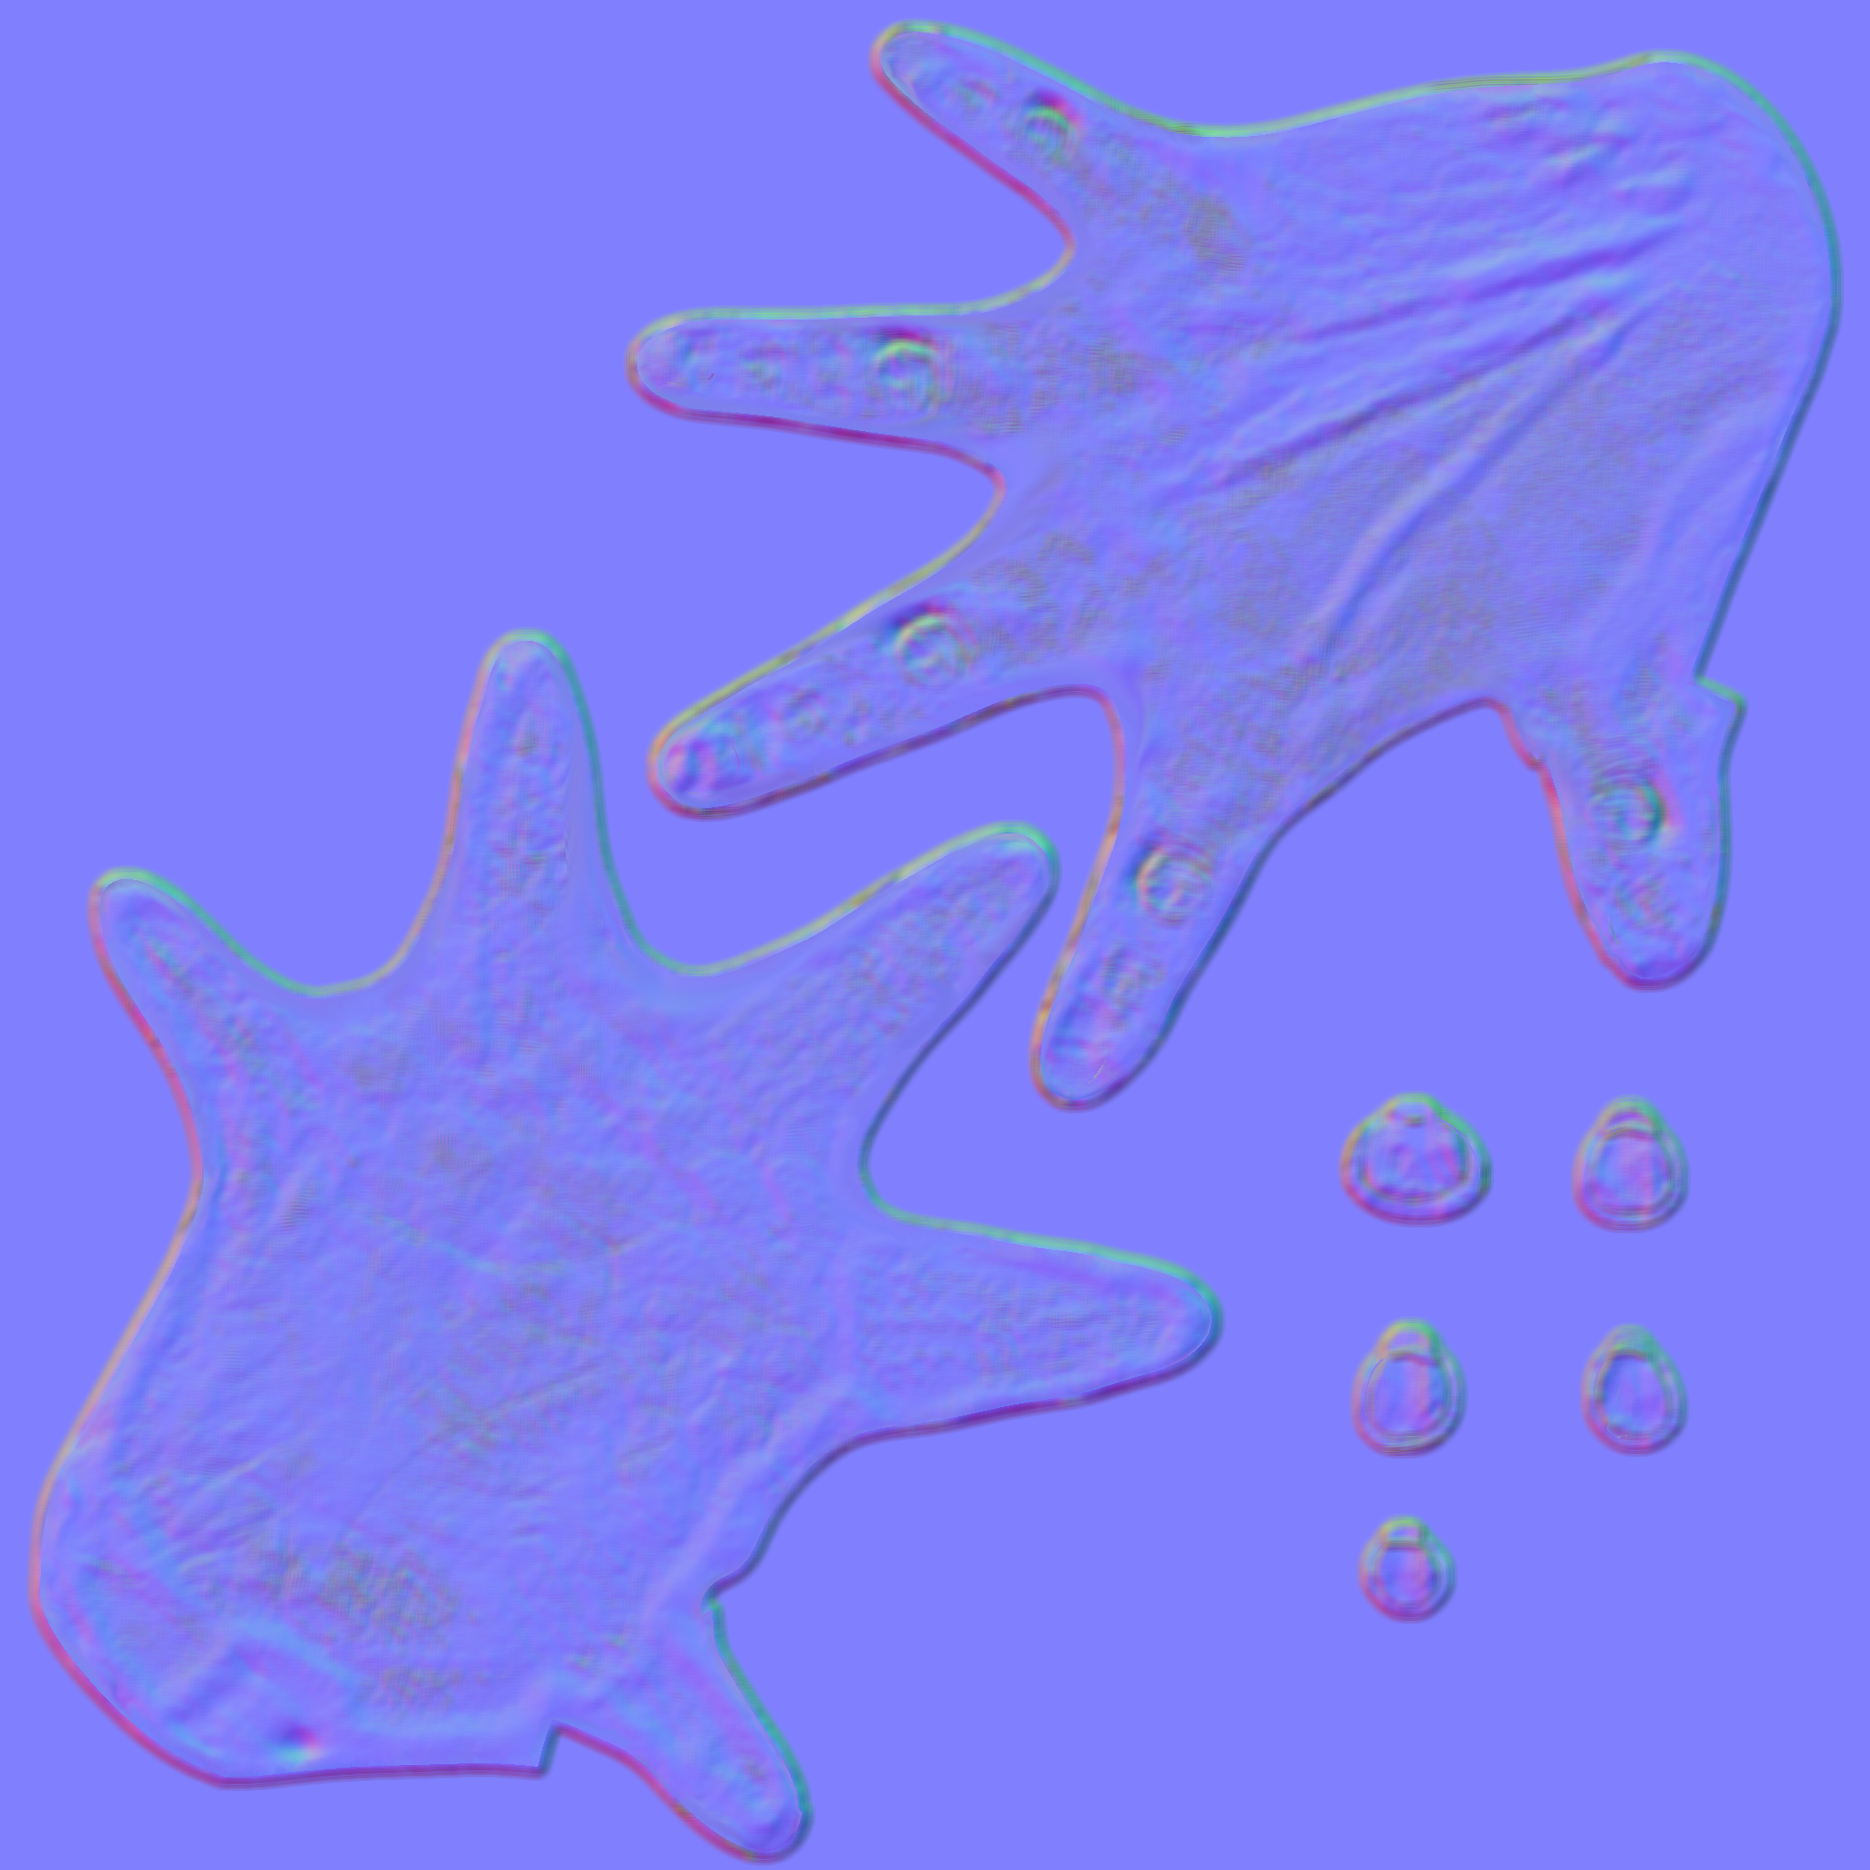
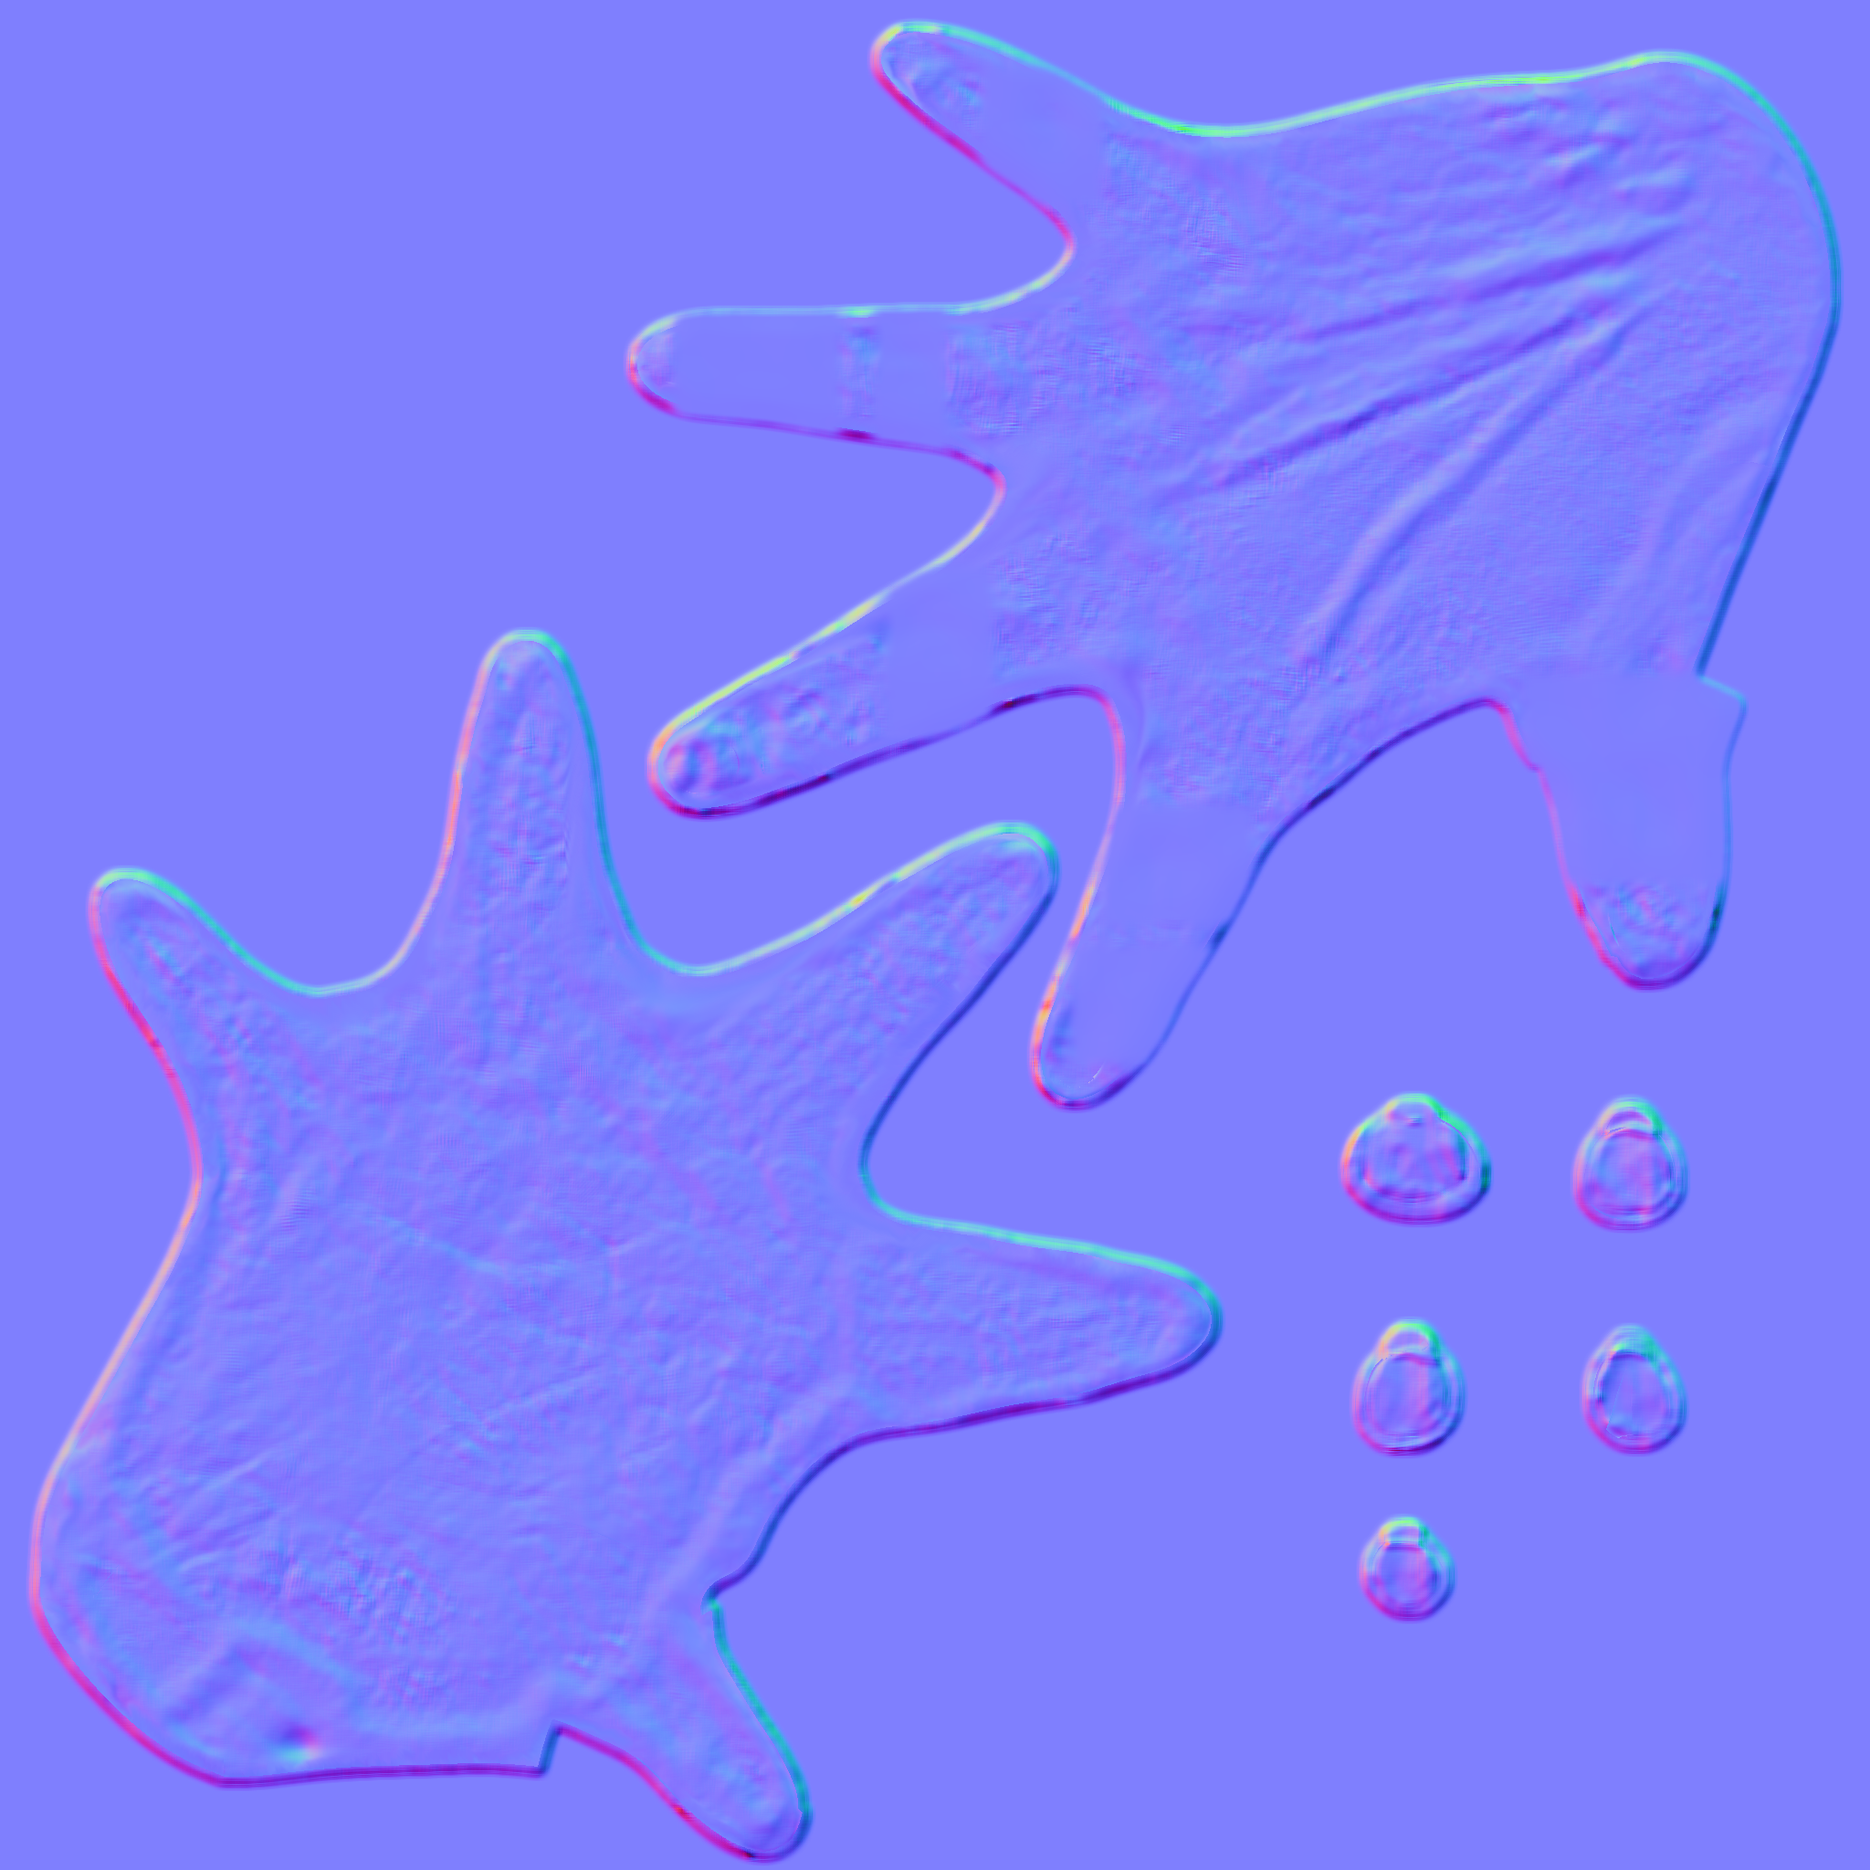
Hands: fade the knuckle swirls and grade Studio peach
The dorsal bullseye on the thumb and the same painted rings on the other
fingers stay as faint creases. Studio's bake is a light, low-contrast peach
with a pale rim and a hazy cuff, and Realistic remains the default.

diff --git a/src/hands/studioSkin.ts b/src/hands/studioSkin.ts
@@ -1,12 +1,12 @@
-// Studio hand. The colour is a Cycles bake of Elena's mesh under soft, even lights
-// (public/hands/elena/studio.webp), so this material does not read the scene lights,
-// the HDRI, or the lighting controls. Matte has nothing glossy to remove. The skin-tone
-// swatch still tints the bake. A short fresnel stands in for the airbrushed rim, and the
-// wrist fades out through the cuff instead of meeting a forearm tube.
+// Studio hand. The colour is a Cycles bake of Elena's mesh, graded to a light peach
+// with the pores and knuckle cavities washed out (public/hands/elena/studio.webp).
+// It does not read the scene lights, the HDRI, or the lighting controls. Matte has
+// nothing glossy to remove. The skin-tone swatch still tints the bake. A pale fresnel
+// blooms the silhouette, and the wrist cuff fades into a light haze.
 import * as THREE from 'three'
 import { toneGain, type SkinTone } from './realisticSkin'
 
-export const STUDIO_URL = '/hands/elena/studio.webp?v=3'
+export const STUDIO_URL = '/hands/elena/studio.webp?v=5'
 
 export function prepareStudioMap(map: THREE.Texture) {
   map.colorSpace = THREE.SRGBColorSpace
@@ -38,13 +38,17 @@ vStudioW = (modelMatrix * vec4(transformed, 1.0)).xyz;`,
       '#include <dithering_fragment>',
       `#include <dithering_fragment>
 float studioNdV = clamp(dot(normalize(vStudioN), normalize(cameraPosition - vStudioW)), 0.0, 1.0);
-float studioRim = pow(1.0 - studioNdV, 1.7);
-gl_FragColor.rgb += vec3(1.0, 0.55, 0.40) * studioRim * 0.22;
-gl_FragColor.rgb += vec3(1.0, 0.78, 0.68) * studioRim * studioRim * 0.06;
-gl_FragColor.a *= 1.0 - smoothstep(uFadeFrom, uFadeFrom + 0.1, vArm);
+float studioRim = pow(1.0 - studioNdV, 1.35);
+// Pale peach bloom along the silhouette, so the edge goes soft instead of cutting.
+gl_FragColor.rgb += vec3(1.0, 0.94, 0.88) * studioRim * 0.26;
+gl_FragColor.rgb += vec3(0.98, 0.93, 0.88) * studioRim * studioRim * 0.10;
+// The cuff is only the mesh past the wrist. It fades into a light haze, then out.
+float cuff = smoothstep(uFadeFrom, uFadeFrom + 0.12, vArm);
+gl_FragColor.rgb = mix(gl_FragColor.rgb, vec3(0.96, 0.93, 0.90), clamp(cuff * 1.05, 0.0, 0.85));
+gl_FragColor.a *= 1.0 - cuff;
 if (gl_FragColor.a < 0.02) discard;`,
     )
   }
-  mat.customProgramCacheKey = () => 'om-elena-studio-2'
+  mat.customProgramCacheKey = () => 'om-elena-studio-3'
   return mat
 }

diff --git a/src/hands/realisticSkin.ts b/src/hands/realisticSkin.ts
@@ -5,9 +5,9 @@
 import * as THREE from 'three'
 
 export const ELENA_URLS: string[] = [
-  '/hands/elena/albedo.webp',
-  '/hands/elena/normal.webp',
-  '/hands/elena/roughness.webp',
+  '/hands/elena/albedo.webp?v=2',
+  '/hands/elena/normal.webp?v=2',
+  '/hands/elena/roughness.webp?v=2',
   '/hands/elena/specular.webp',
 ]
 

diff --git a/README.md b/README.md
@@ -48,7 +48,7 @@ Hand → Appearance → Hand style switches between **Realistic** (the default),
 
 Realistic skin is a `MeshPhysicalMaterial` (`src/hands/realisticSkin.ts`) on Elena FF's mesh, so the orbit camera and the lighting controls (intensity, direction, height, contact shadow, the studio HDRI) still shade the hand. The roughness map is lifted, specular is low, clearcoat is off and the normal map is softened, so the skin stays dry and matte with a little warmth. Matte, in Sketch, still strips sheen, specular and the environment reflection. A wrapped diffuse lobe and a small warm backlight stand in for subsurface scatter. The skin-tone swatches scale the albedo: Fair leaves the texture as painted, and the other swatches shift it.
 
-Studio (`src/hands/studioSkin.ts`) uses the same mesh with an airbrushed Cycles bake (`public/hands/elena/studio.webp`): pores are softened, the light is an even wrap, and a warm fresnel glows at the silhouette. The material is unlit on purpose: scene lights, the HDRI and the lighting controls do not shade it. The wrist cuff fades into the background instead of growing a forearm. The skin-tone swatch still tints the bake. Realistic stays the default.
+Studio (`src/hands/studioSkin.ts`) uses the same mesh with a Cycles bake graded to a light peach (`public/hands/elena/studio.webp`): pores are nearly gone, the shading is a soft low-contrast wrap, and a pale fresnel blooms the silhouette. The material is unlit on purpose: scene lights, the HDRI and the lighting controls do not shade it. The wrist cuff fades into a light haze instead of growing a forearm. The skin-tone swatch still tints the bake. Realistic stays the default. The dorsal knuckle swirls in the colour and normal maps are softened locally, on both styles, so those creases stay faint.
 
 The mesh is "Rigged hand" by Elena FF, about 15.5k vertices and 29k triangles after triangulation. In Blender the deform bones were unparented onto a flat armature (OpenMock poses each joint in armature space), renamed to the WebXR generic-hand bone names, and scaled so the wrist-to-middle-fingertip length matches the classic asset (178 mm). Control bones were dropped; they carried no skin weights. The thumb's extra middle phalanx is posed on its own: the curl is shared, the middle joint stays shallow (a little of its sculpted kink is opened so it does not fold into a slit), and the nail joint stays at a gentle bend so the tip does not fold into the phone. The short base bones stay near the sculpted rest so the knuckle does not collapse. The forearm is the same physical skin as the hand, tiled from a patch of these maps, flared over the cuff. Elena's fingers are thicker than the generic hand, so the contact spheres and the phone grips for that mesh are separate. Classic poses are unchanged. A left hand is the right hand mirrored on X, with the same bone names. See `public/hands/elena/README.md` for the conversion steps, the bake, and the CC BY-SA terms.
 
@@ -57,11 +57,11 @@ The model's sculpted nails are the ones you see. Procedural nail plates stay on 
 | File | Contents |
 | --- | --- |
 | `public/hands/elena/right.glb`, `left.glb` | Meshopt-compressed glTF, flat skeleton, 27 joints. |
-| `albedo.webp` | The model's colour map. |
-| `normal.webp` | The model's tangent-space normal map. |
-| `roughness.webp` | The model's roughness map, lifted so the skin stays matte. |
+| `albedo.webp` | The model's colour map. Dorsal knuckle swirls are softened in place. |
+| `normal.webp` | The model's tangent-space normal map, with those same knuckles faded. |
+| `roughness.webp` | The model's roughness map, lifted so the skin stays matte, and softened on those knuckles. |
 | `specular.webp` | The model's specular map. Shipped for reference; the material does not sample it. |
-| `studio.webp` | Airbrushed Cycles bake of this mesh. CC BY-SA, because it is derived from the model. |
+| `studio.webp` | Light-peach Cycles bake of this mesh. CC BY-SA, because it is derived from the model. |
 | `forearm-albedo.webp`, `forearm-normal.webp`, `forearm-roughness.webp` | Seamless skin tile for the forearm, cut from the hand maps. CC BY-SA. |
 
 ### Photoreal hands (ComfyUI)

diff --git a/public/hands/elena/README.md b/public/hands/elena/README.md
@@ -36,10 +36,12 @@ Positive curl still closes toward the palm. That was checked by hinging the midd
 
 UVs are the glTF set, so the textures load with `flipY` off. The forearm is still the procedural lathe; it does not share this unwrap. It samples the forearm tiles with repeat wrapping, on the same physical skin as the hand (roughness, normal scale, sheen, wrapped diffuse). The realistic lathe flares over the open rim and then settles into a slight forearm belly. Only the last few millimetres of the cuff fade, so the palm stays opaque and the two surfaces meet as one arm. Crease occlusion is not baked into the Realistic maps. The earlier procedural skin maps read as blotches, so they are not used.
 
+The dorsal thumb knuckle and the same swirl on the other fingers (each PIP, plus the index and ring DIP) were painted as a tight bullseye. Those UV islands are softened in `albedo.webp`, `normal.webp` and `roughness.webp`: the colour keeps a shallow crease, and the normal's tangent strength in that patch is reduced so the ring reads as a fine line. Palmar creases, nails and the rest of the pores are unchanged. The forearm tiles were cut before this edit and do not include those islands.
+
 `MeshPhysicalMaterial` (Realistic) samples colour, normal and roughness. Roughness is high, specular is low, clearcoat is off, and the normal map is scaled down, so the skin reads dry under the studio key. A wrapped diffuse lobe and a small warm backlight stay. Matte still clears specular, sheen and the environment reflection.
 
 ## Studio
 
-`studio.webp` is a lighting bake of this same mesh, so it is CC BY-SA 4.0 as well. Headless Blender 4 Cycles (CPU, no denoiser) lit the open hand with a large soft key, a gentler fill, a dim back light and a little subsurface, and baked the diffuse illumination without the albedo. That factor is compressed toward the middle so the wrap stays even and creases stay gentle. It is multiplied, in linear light, by a blurred copy of `hand_Co` (a little of the sharp albedo is mixed back, so pores are softened rather than erased). A warm lift keeps the midtone saturated. Nothing is clipped to white. One neutral pose is enough: the light is even, so a curled finger does not pick up a hard shadow from the open-hand bake.
+`studio.webp` is a lighting bake of this same mesh, so it is CC BY-SA 4.0 as well. Headless Blender 4 Cycles (CPU, no denoiser) lit the open hand with a large soft key, a gentler fill, a dim back light and a little subsurface, and baked the diffuse illumination without the albedo. That factor is compressed so the wrap stays soft. It is applied, in linear light, to a heavily blurred copy of the softened albedo, then graded to a light peach (around sRGB 0.79, 0.67, 0.58 in the midtone) with low saturation. Pores are nearly gone. Nothing is clipped to white. One neutral pose is enough: the light is even, so a curled finger does not pick up a hard shadow from the open-hand bake.
 
-In the app, Studio is a `MeshBasicMaterial` (`src/hands/studioSkin.ts`). It does not read the scene lights, the HDRI, or the lighting controls. The skin-tone swatch still tints the bake. A warm fresnel stands in for subsurface at the silhouette. The wrist cuff fades out through the existing `aArm` attribute instead of meeting the forearm tube. Matte has nothing glossy to remove. Realistic stays the default.
+In the app, Studio is a `MeshBasicMaterial` (`src/hands/studioSkin.ts`). It does not read the scene lights, the HDRI, or the lighting controls. The skin-tone swatch still tints the bake. A pale peach fresnel blooms the silhouette. The wrist cuff, which is only the mesh past the wrist, fades into a light haze through the existing `aArm` attribute instead of meeting the forearm tube. Matte has nothing glossy to remove. Realistic stays the default.

diff --git a/CREDITS.md b/CREDITS.md
@@ -9,4 +9,4 @@
 - Effects: postprocessing and @react-three/postprocessing (MIT).
 - iPhone 18 Pro: an unofficial, procedural model built in code for this project (`src/devices/IPhone18Pro.tsx`). Measurements come from Apple's "iPhone 18 Pro Dimensional Drawings" (2026-09-09, developer.apple.com/accessories/dimensional-drawings) and finishes and the 1206 × 2622 px display size from apple.com/iphone-18-pro/specs. It is not an official Apple model and not affiliated with or endorsed by Apple. No Apple artwork or logo is included. iPhone is a trademark of Apple Inc.
 - Hands (Classic): the "generic-hand" left and right models from the WebXR Input Profiles assets (github.com/immersive-web/webxr-input-profiles, npm @webxr-input-profiles/assets 1.0.20), MIT License, Copyright (c) 2019 Amazon. Files: `public/hands/left.glb`, `public/hands/right.glb`, licence in `public/hands/LICENSE.md`. Openmock poses them in code (`src/hands/Hands.tsx`) and gives them its own skin material.
-- Hands (Realistic and Studio): "Rigged hand" by Elena FF (https://sketchfab.com/elenaferfor), licensed under CC BY-SA 4.0, modified. Source model: https://sketchfab.com/3d-models/rigged-hand-eae97cc2a742413cb5338ab942b12c1e. The deform skeleton was flattened onto the WebXR bone names, scaled to the classic hand, and mirrored for a left hand. `studio.webp` is a Cycles bake of that mesh under soft studio light, so it is CC BY-SA 4.0 as well. Files: `public/hands/elena/`, licence in `public/hands/elena/LICENSE.md`. These files are CC BY-SA 4.0. The rest of the application stays MIT.
+- Hands (Realistic and Studio): "Rigged hand" by Elena FF (https://sketchfab.com/elenaferfor), licensed under CC BY-SA 4.0, modified. Source model: https://sketchfab.com/3d-models/rigged-hand-eae97cc2a742413cb5338ab942b12c1e. The deform skeleton was flattened onto the WebXR bone names, scaled to the classic hand, and mirrored for a left hand. `studio.webp` is a Cycles bake of that mesh, graded to a light peach, so it is CC BY-SA 4.0 as well. Files: `public/hands/elena/`, licence in `public/hands/elena/LICENSE.md`. These files are CC BY-SA 4.0. The rest of the application stays MIT.
